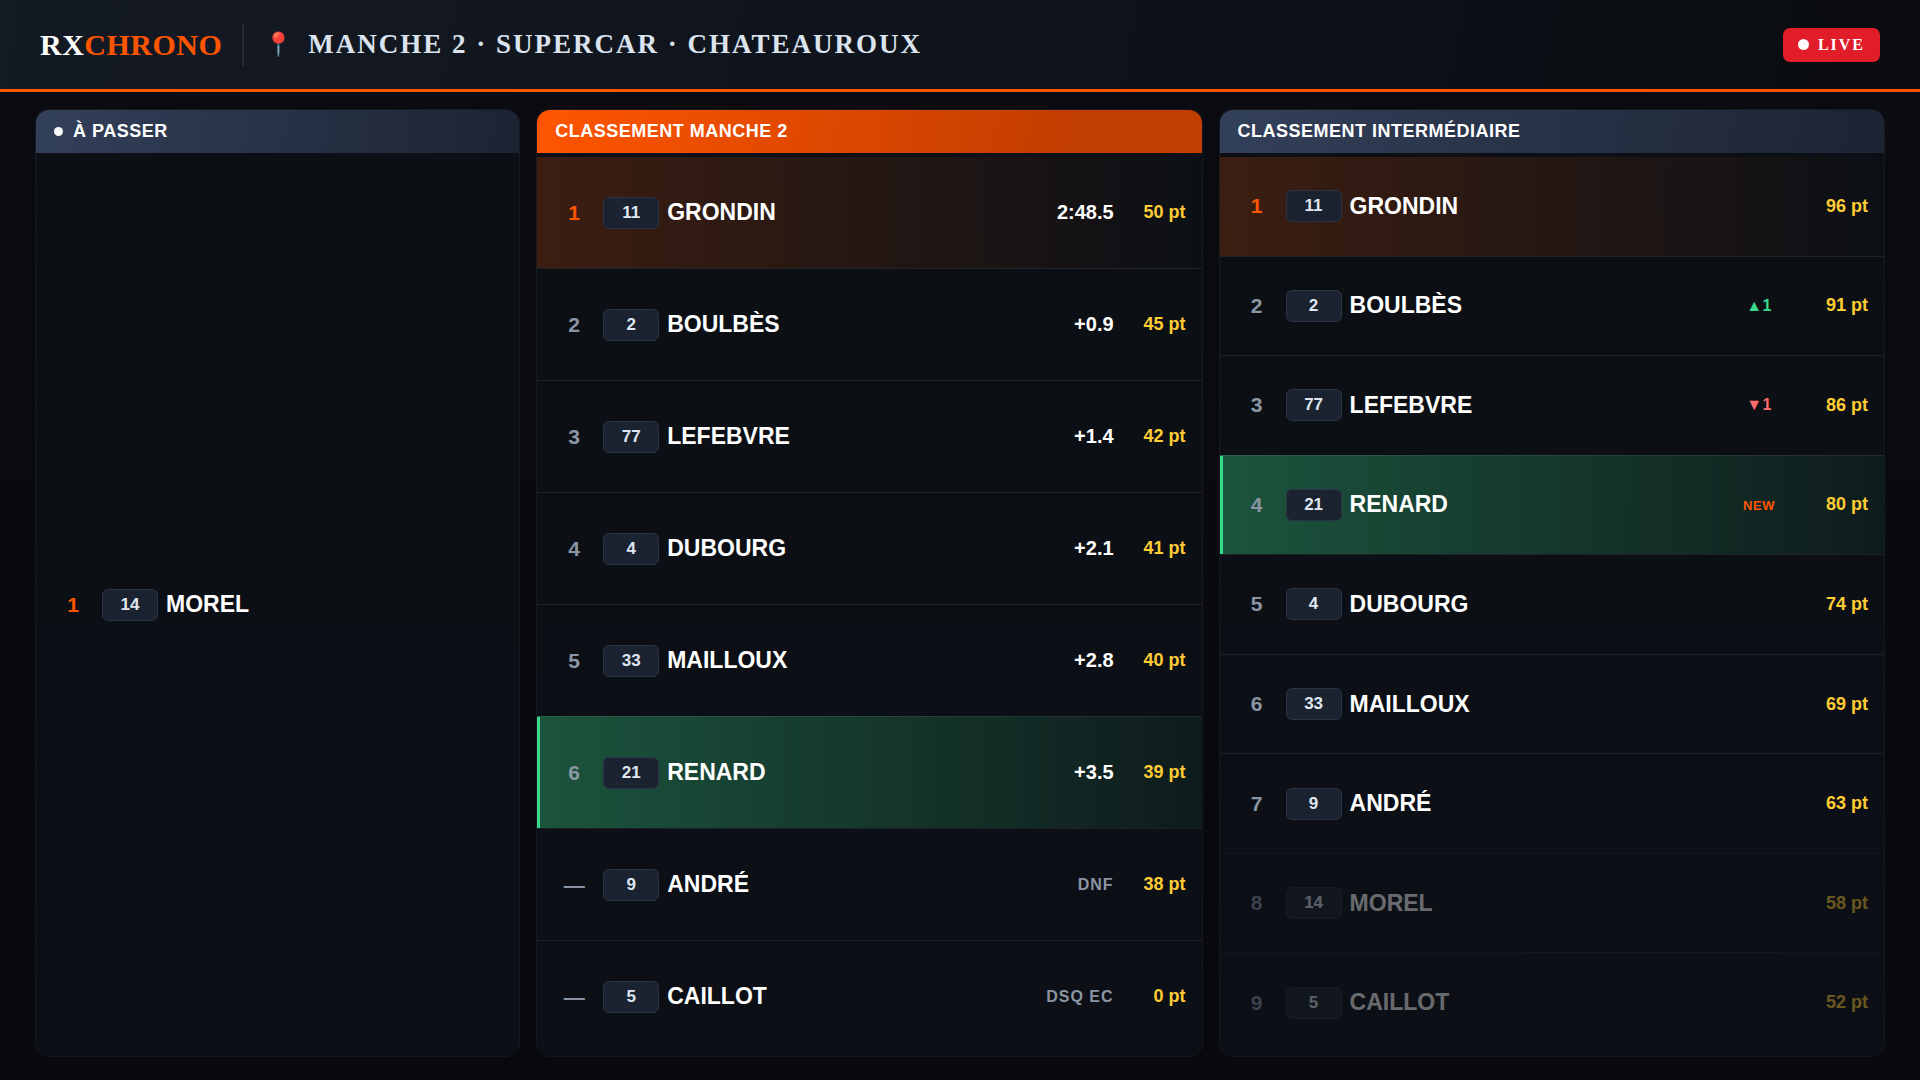
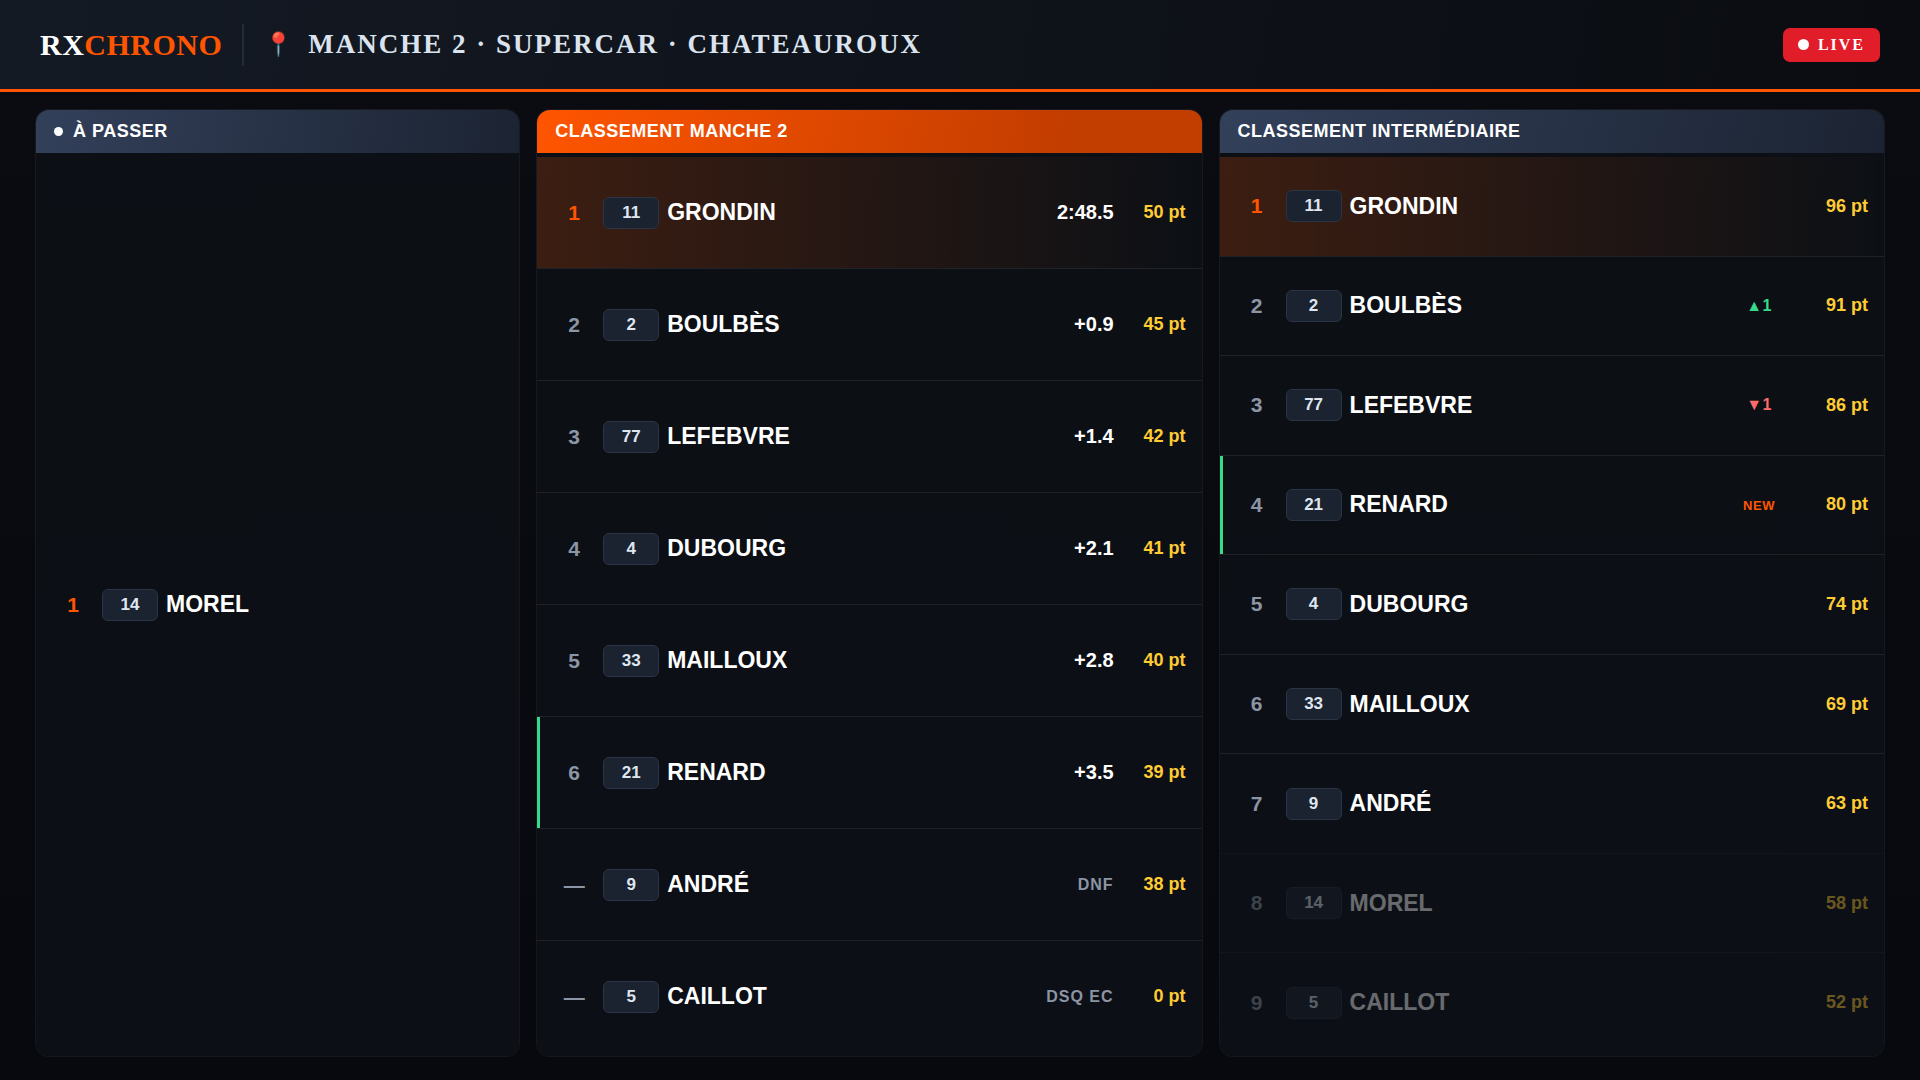
Surbrillance pilote : fondu à l'entrée + petite barre persistante (moins envahissant)
Compromis visuel : le fondu vert (just-flashed) ne joue qu'une seule fois à
l'entrée du pilote, puis seule une petite barre verte (just-added) reste sur le
dernier entré jusqu'à la saisie suivante (effacée par le timer 10s pour le
dernier de la manche). Évite un gros bloc vert permanent et le re-flash à chaque
rafraîchissement.

Claude-Session: https://claude.ai/code/session_014SMM8bCWUptTvMGxasXwe8

Changed region(s): [[0.625, 0.3972, 0.9062, 0.5194], [0.2812, 0.6417, 0.5625, 0.7639]]

diff --git a/overlay/live.html b/overlay/live.html
@@ -115,15 +115,22 @@
           ? await getEcRank(sessions, reg).catch(() => [])
           : await getMqRank(session, reg).catch(() => []);
         const curIds = new Set(rank.map(r => r.driverId).filter(Boolean));
-        // nouveau classé → on garde EN SURBRILLANCE le dernier ajouté
+        // nouveau(x) ce render → fondu une seule fois ; le dernier garde la barre
+        let flashIds = new Set();
         if (prevIds) {
           const newcomers = [...curIds].filter(id => !prevIds.has(id));
           if (newcomers.length) {
+            flashIds = new Set(newcomers);
             lastAddedId = newcomers[newcomers.length - 1];
             if (sessTimer) { clearTimeout(sessTimer); sessTimer = null; }
           }
         }
-        rank.forEach(r => { if (r.driverId && r.driverId === lastAddedId) r.justAdded = true; });
+        const mark = r => {
+          if (!r.driverId) return;
+          if (r.driverId === lastAddedId) r.justAdded = true;   // barre persistante
+          if (flashIds.has(r.driverId)) r.justFlashed = true;   // fondu (à l'entrée)
+        };
+        rank.forEach(mark);
         const todo = order.filter(o => !hasRun(o.driverId)).map((o, i) => ({ pos: i + 1, carNumber: o.carNumber, lastName: o.lastName }));
         const data = {
           mode: ctrl.sessionType === 'EC' ? 'ec' : 'mq',
@@ -138,7 +145,7 @@
             const pp = prevPos[r.driverId];
             r.delta = pp == null ? 'new' : (pp - r.position); // >0 = places gagnées
           });
-          interim.forEach(r => { if (r.driverId === lastAddedId) r.justAdded = true; });
+          interim.forEach(mark);
           prevPos = {}; interim.forEach(r => { prevPos[r.driverId] = r.position; });
           data.interim = interim;
         }

diff --git a/overlay/_lib/obs-scenes.js b/overlay/_lib/obs-scenes.js
@@ -180,14 +180,14 @@ export function renderSession(d) {
   const todoRow = r => `<div class="cr todo">
     <span class="p">${r.pos}</span><span class="n">${escHtml(String(r.carNumber ?? ''))}</span>
     <span class="nm">${escHtml((r.lastName || '').toUpperCase())}</span></div>`;
-  const rankRow = (r, i) => `<div class="cr rank ${i === 0 && !r.status ? 'p1' : ''} ${r.justAdded ? 'just-added' : ''}">
+  const rankRow = (r, i) => `<div class="cr rank ${i === 0 && !r.status ? 'p1' : ''} ${r.justAdded ? 'just-added' : ''} ${r.justFlashed ? 'just-flashed' : ''}">
     <span class="p">${r.status ? '—' : (r.position ?? i + 1)}</span><span class="n">${escHtml(String(r.carNumber ?? ''))}</span>
     <span class="nm">${escHtml((r.lastName || '').toUpperCase())}</span>
     <span class="v ${r.status ? 'st' : ''}">${escHtml(r.value || '')}</span>
     <span class="pt">${r.points != null && r.points !== '' ? r.points + ' pt' : ''}</span></div>`;
   const deltaHtml = d => d == null ? '' : d === 'new' ? '<span class="delta nw">NEW</span>'
     : d > 0 ? `<span class="delta up">▲${d}</span>` : d < 0 ? `<span class="delta dn">▼${-d}</span>` : '';
-  const ptsRow = (r, i) => `<div class="cr pts ${i === 0 ? 'p1' : ''} ${r.justAdded ? 'just-added' : ''} ${r.done === false ? 'pending' : ''}">
+  const ptsRow = (r, i) => `<div class="cr pts ${i === 0 ? 'p1' : ''} ${r.justAdded ? 'just-added' : ''} ${r.justFlashed ? 'just-flashed' : ''} ${r.done === false ? 'pending' : ''}">
     <span class="p">${r.position ?? i + 1}</span><span class="n">${escHtml(String(r.carNumber ?? ''))}</span>
     <span class="nm">${escHtml((r.lastName || '').toUpperCase())}</span>
     <span class="dlt">${deltaHtml(r.delta)}</span>

diff --git a/overlay/_lib/overlay.css b/overlay/_lib/overlay.css
@@ -124,9 +124,10 @@ html,body{width:1920px;height:1080px;overflow:hidden;background:transparent;
 .delta.up{color:var(--green)}
 .delta.dn{color:#ff6b6b}
 .delta.nw{color:var(--orange);font-size:13px}
-/* surbrillance verte PERSISTANTE du dernier pilote entré (jusqu'à la saisie suivante) */
-.cr.just-added{background:linear-gradient(90deg,rgba(57,217,138,.34),rgba(57,217,138,.06));
-  box-shadow:inset 3px 0 0 var(--green)}
+/* dernier pilote entré : fondu vert à l'entrée + petite barre verte persistante */
+@keyframes justFlash{0%{background:rgba(57,217,138,.50)}100%{background:transparent}}
+.cr.just-added{box-shadow:inset 3px 0 0 var(--green)}   /* liseré : reste jusqu'à la saisie suivante */
+.cr.just-flashed{animation:justFlash 2.6s ease-out}      /* fondu : joué une seule fois à l'entrée */
 /* intermédiaire : grisé = pas encore passé dans la manche en cours */
 .cr.pts.pending{opacity:.38}
 
